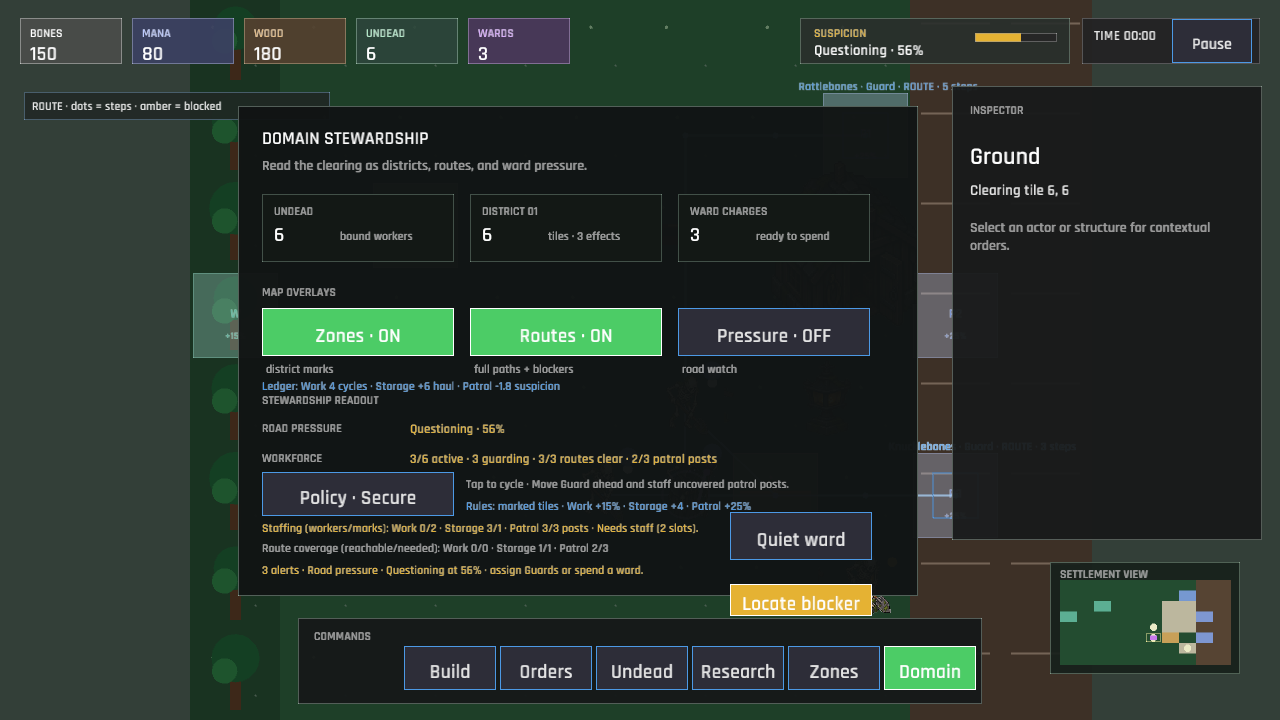
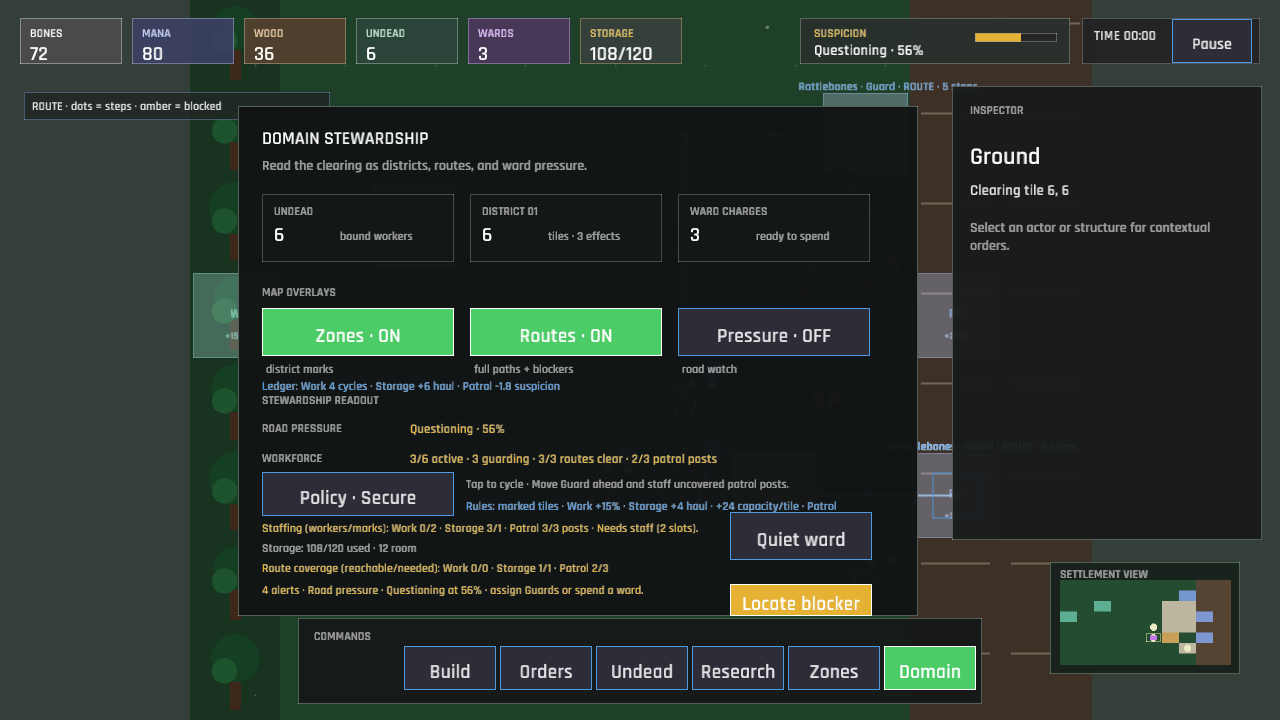
The marked district tells how much room the dead still have (storage capacity summary)
The Domain stewardship panel now presents used storage and remaining room beside the existing staffing and route readouts. The capture state was tuned to leave a visible reserve so the new information can be read without an incidental overflow alert.

diff --git a/src/ui/domain.rs b/src/ui/domain.rs
@@ -14,7 +14,7 @@ pub(super) fn draw_domain_panel(
     pointer: Pointer,
     actions: &mut Vec<UiAction>,
 ) {
-    let rect = Rect::new(238.0, 106.0, 680.0, 490.0);
+    let rect = Rect::new(238.0, 106.0, 680.0, 510.0);
     draw_surface(
         rect,
         &SurfaceStyle::new(Color::new(0.045, 0.055, 0.055, 0.98))
@@ -330,9 +330,23 @@ fn draw_stewardship_readout(
         },
     );
     draw_text_block(
-        &districts::coverage_summary(ctx.session),
+        &districts::storage_summary(ctx.session, &ctx.data.config.district_rules),
         rect.x + 24.0,
         rect.y + 434.0,
+        440.0,
+        18.0,
+        11.0,
+        0.0,
+        if districts::storage_space(ctx.session, &ctx.data.config.district_rules) == 0 {
+            dark::WARNING
+        } else {
+            dark::TEXT_DIM
+        },
+    );
+    draw_text_block(
+        &districts::coverage_summary(ctx.session),
+        rect.x + 24.0,
+        rect.y + 454.0,
         440.0,
         18.0,
         11.0,
@@ -357,7 +371,7 @@ fn draw_stewardship_readout(
             detail
         ),
         rect.x + 24.0,
-        rect.y + 456.0,
+        rect.y + 476.0,
         440.0,
         38.0,
         12.0,

diff --git a/src/engine/districts/tests.rs b/src/engine/districts/tests.rs
@@ -417,6 +417,19 @@ fn marked_storage_tiles_expand_material_capacity_after_domain() {
 }
 
 #[test]
+fn storage_summary_names_used_and_remaining_room() {
+    let data = crate::data::GameData::load().unwrap();
+    let mut session = GameSession::new(&data.config);
+    session.economy.bones = 90;
+    session.economy.wood = 4;
+
+    assert_eq!(
+        storage_summary(&session, &data.config.district_rules),
+        "Storage: 94/96 used · 2 room"
+    );
+}
+
+#[test]
 fn district_ledger_records_effects_and_first_use_notes() {
     let data = crate::data::GameData::load().unwrap();
     let mut session = GameSession::new(&data.config);

diff --git a/src/engine/districts.rs b/src/engine/districts.rs
@@ -45,6 +45,16 @@ pub fn storage_space(session: &GameSession, rules: &DistrictRules) -> i32 {
         .storage_space(storage_capacity(session, rules))
 }
 
+pub fn storage_summary(session: &GameSession, rules: &DistrictRules) -> String {
+    let capacity = storage_capacity(session, rules);
+    format!(
+        "Storage: {}/{} used · {} room",
+        session.economy.stored_materials(),
+        capacity,
+        storage_space(session, rules)
+    )
+}
+
 pub fn guard_mitigation_multiplier(
     session: &GameSession,
     rules: &DistrictRules,

diff --git a/src/game/capture.rs b/src/game/capture.rs
@@ -338,6 +338,8 @@ impl Game {
 
     fn prepare_capture_domain(&mut self) {
         self.prepare_capture_colony();
+        self.session.economy.bones = 72;
+        self.session.economy.wood = 36;
         self.panel = Panel::Domain;
         self.zone_mode = None;
         self.domain_overlays.routes = true;
